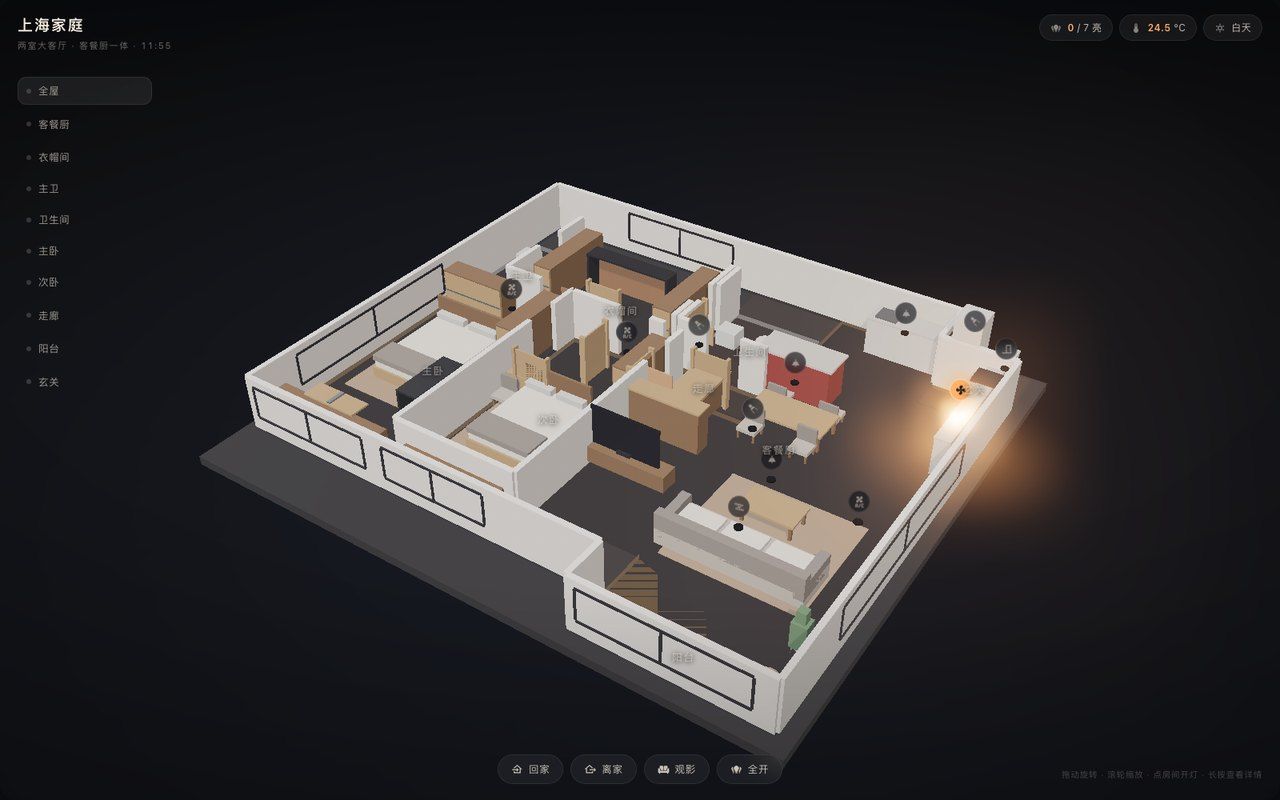
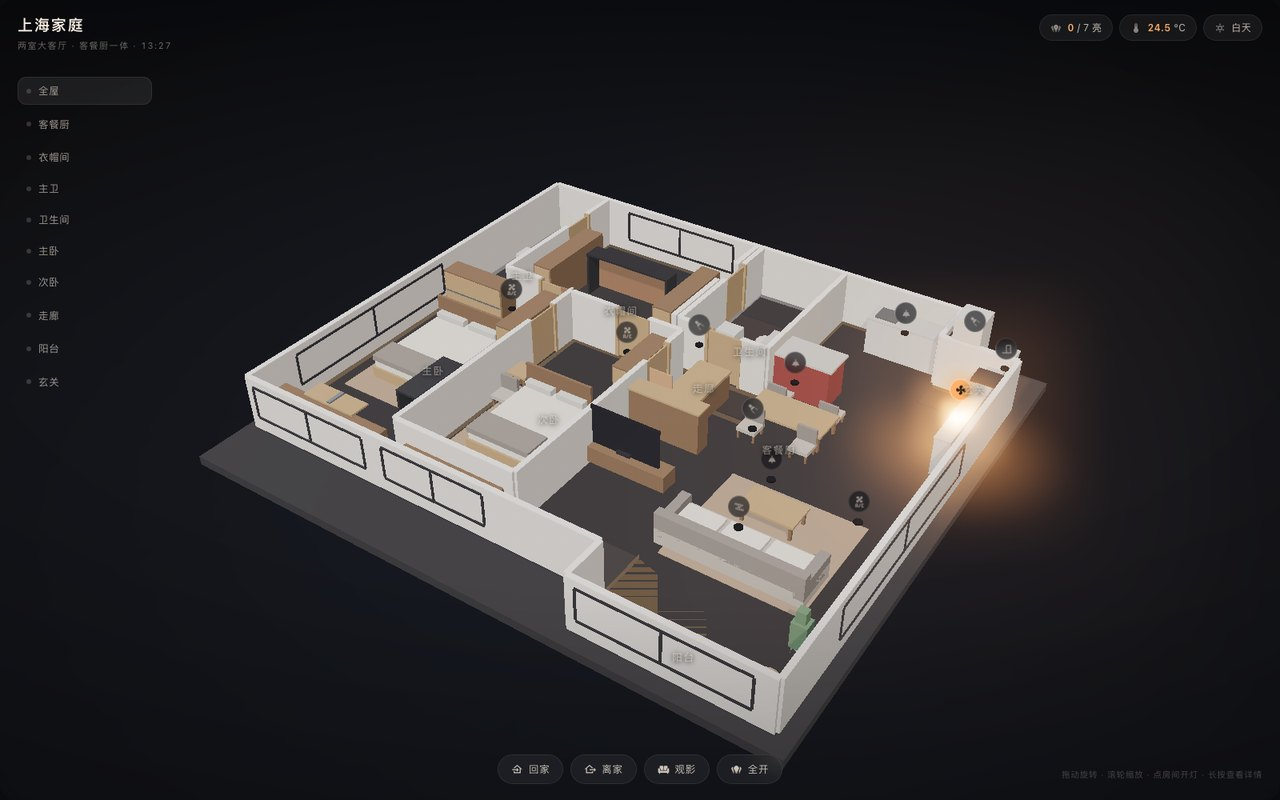
fix: 补齐图纸墙线连接

Changed region(s): [[0.375, 0.3125, 0.6875, 0.5], [0.4062, 0.25, 0.5, 0.3125], [0.5, 0.3125, 0.5312, 0.3438]]

diff --git a/model/build_model.py b/model/build_model.py
@@ -256,9 +256,9 @@ class Model:
 
 
 ROOM_POLYGONS = {
-    "主卫": [(0.10, 1.15), (1.55, 1.15), (1.55, 4.00), (0.10, 4.00)],
-    "衣帽间": [(1.60, 1.15), (5.80, 1.15), (5.80, 4.00), (1.60, 4.00)],
-    "卫生间": [(5.95, 1.15), (8.05, 1.15), (8.05, 3.65), (5.95, 3.65)],
+    "主卫": [(0.10, 0.05), (1.55, 0.05), (1.55, 4.00), (0.10, 4.00)],
+    "衣帽间": [(1.60, 0.05), (5.80, 0.05), (5.80, 4.00), (1.60, 4.00)],
+    "卫生间": [(5.95, 0.05), (8.05, 0.05), (8.05, 3.65), (5.95, 3.65)],
     "走廊": [(5.75, 3.70), (8.05, 3.70), (8.05, 4.65), (5.75, 4.65)],
     "主卧": [(0.10, 4.05), (3.40, 4.05), (3.40, 9.60), (0.10, 9.60)],
     "次卧": [(3.45, 4.05), (6.25, 4.05), (6.25, 9.60), (3.45, 9.60)],
@@ -275,13 +275,14 @@ OUTER_WALL = [
 ]
 
 INTERIOR_WALLS = [
-    ((1.60, 1.15), (1.60, 4.00), [(0.90, 1.70)]),
+    ((1.60, 0.05), (1.60, 4.00), [(0.90, 1.70)]),
     ((1.60, 4.00), (3.40, 4.00), [(0.95, 1.75)]),
     ((3.40, 4.05), (3.40, 9.60), [(0.65, 1.45)]),
-    ((3.45, 4.00), (5.80, 4.00), [(1.20, 2.00)]),
-    ((5.80, 1.15), (5.80, 3.65), [(1.00, 1.80)]),
-    ((5.95, 1.15), (5.95, 3.65), [(0.90, 1.70)]),
+    ((3.45, 4.05), (6.25, 4.05), [(1.20, 2.00)]),
+    ((5.80, 0.05), (5.80, 3.65), [(1.00, 1.80)]),
+    ((5.95, 0.05), (5.95, 3.65), [(0.90, 1.70)]),
     ((5.95, 3.65), (8.05, 3.65), [(0.70, 1.50)]),
+    ((8.05, 0.05), (8.05, 3.65), []),
     ((6.25, 4.05), (6.25, 9.60), [(0.55, 1.35)]),
     ((3.45, 9.60), (6.25, 9.60), []),
 ]
@@ -338,12 +339,13 @@ def build_windows(m: Model) -> None:
 def build_door_frames(m: Model) -> None:
     """门洞两侧的竖向门套。"""
     jambs = [
-        (3.45, 3.45, 0), (4.25, 3.45, 0),
-        (4.70, 4.60, math.pi / 2), (4.70, 5.40, math.pi / 2),
-        (3.75, 6.45, 0), (4.57, 6.45, 0),
-        (6.00, 2.70, math.pi / 2), (6.00, 3.50, math.pi / 2),
-        (6.80, 4.45, 0), (7.60, 4.45, 0),
-        (6.10, 4.95, math.pi / 2), (6.10, 5.75, math.pi / 2),
+        (2.55, 4.00, 0), (3.35, 4.00, 0),
+        (4.65, 4.05, 0), (5.45, 4.05, 0),
+        (3.40, 4.70, math.pi / 2), (3.40, 5.50, math.pi / 2),
+        (6.25, 4.60, math.pi / 2), (6.25, 5.40, math.pi / 2),
+        (1.60, 0.95, math.pi / 2), (1.60, 1.75, math.pi / 2),
+        (5.95, 0.95, math.pi / 2), (5.95, 1.75, math.pi / 2),
+        (6.65, 3.65, 0), (7.45, 3.65, 0),
     ]
     for x, z, rot in jambs:
         m.box("wood_light", x, WALL_H / 2, z, 0.07, WALL_H, WALL_T + 0.02, rot)
@@ -352,12 +354,13 @@ def build_door_frames(m: Model) -> None:
 def build_doors(m: Model) -> None:
     """开着的门扇，给剖切模型一点生活感。"""
     leaves = [
-        (3.85, 3.45, 0.82, math.pi),
-        (4.70, 4.98, 0.82, math.pi / 2),
-        (4.16, 6.45, 0.82, math.pi),
-        (6.00, 3.10, 0.82, math.pi / 2),
-        (7.20, 4.45, 0.82, 0.0),
-        (6.10, 5.35, 0.82, math.pi / 2),
+        (2.95, 4.00, 0.82, 0),
+        (5.05, 4.05, 0.82, 0),
+        (3.40, 5.10, 0.82, math.pi / 2),
+        (6.25, 5.00, 0.82, math.pi / 2),
+        (1.60, 1.35, 0.82, math.pi / 2),
+        (5.95, 1.35, 0.82, math.pi / 2),
+        (7.05, 3.65, 0.82, 0),
     ]
     for x, z, width, angle in leaves:
         m.box("wood_light", x, WALL_H / 2 - 0.02, z, width, WALL_H - 0.06, 0.04, rot_y=angle)
